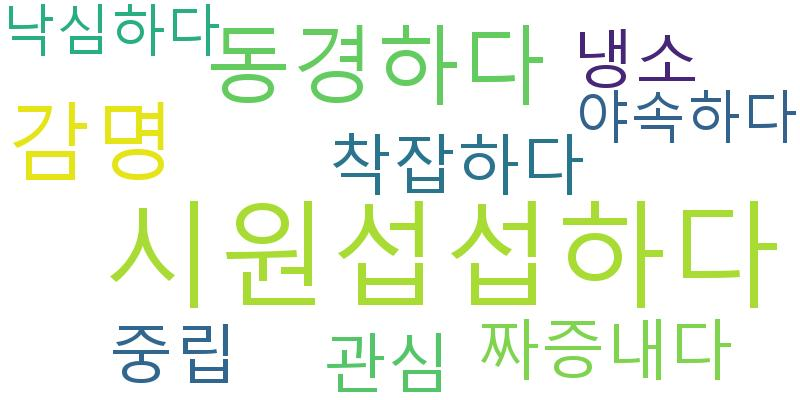
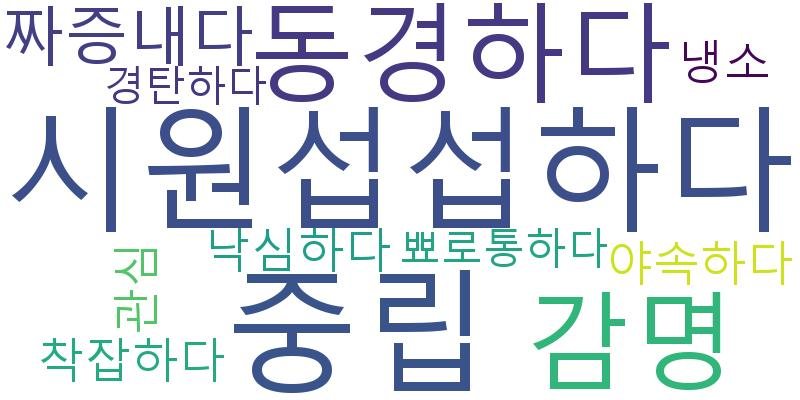
워드클라 수정

diff --git a/emotion_classification_api/data_fetcher.py b/emotion_classification_api/data_fetcher.py
@@ -45,29 +45,33 @@ def load_chat_history_from_db(croom_idx: int, session_idx: int):
 # 워드 클라우드를 생성하고 이미지 파일로 저장하는 함수
 def fetch_chat_data_and_generate_wordcloud(croom_idx: int) -> str:
     try:
-        # static_dir 값을 출력하여 확인
         print(f"Static directory path in fetcher.py: {static_dir}")
-        
-        # croom_idx에 해당하는 모든 채팅 기록 가져오기
+
+        # croom_idx에 해당하는 bot의 채팅 기록 가져오기
         chat_history = get_chat_history_by_croom(croom_idx)
         if not chat_history:
             raise ValueError("No chat history available for the given croom_idx.")
-        
-        # 모든 대화 내용을 하나의 텍스트로 결합
-        chat_texts = " ".join([entry[1] for entry in chat_history])
+
+        # emotion_keyword만 추출하여 텍스트로 결합
+        emotion_keywords = " ".join([entry[2] for entry in chat_history if entry[2]])  # entry[2]는 emotion_keyword
+        if not emotion_keywords.strip():
+            raise ValueError("No emotion keywords found for the given chat history.")
 
         # 워드 클라우드 생성
-        wordcloud = WordCloud(width=800, height=400, font_path="c:/Windows/Fonts/malgun.ttf", background_color='white').generate(chat_texts)
-        
-        # static_dir 변수를 사용하여 절대 경로 생성
+        wordcloud = WordCloud(
+            width=800,
+            height=400,
+            font_path="c:/Windows/Fonts/malgun.ttf",
+            background_color='white'
+        ).generate(emotion_keywords)
+
+        # 워드클라우드 이미지 저장
         wordcloud_dir = os.path.join(static_dir, "wordclouds")
         os.makedirs(wordcloud_dir, exist_ok=True)
         image_path = os.path.join(wordcloud_dir, f"wordcloud_{croom_idx}.jpg")
         wordcloud.to_file(image_path)
 
-        # 경로 확인 출력
         print(f"Word cloud image path: {image_path}")
-        
         return image_path
 
     except Exception as e:

diff --git a/emotion_classification_api/database_service.py b/emotion_classification_api/database_service.py
@@ -67,9 +67,12 @@ def get_chat_history_by_croom(croom_idx):
             """)
             results = connection.execute(query, {"croom_idx": croom_idx}).mappings().fetchall()
             
-            # emotion_keyword 포함하여 반환
+            # 반환 데이터 디버깅
+            print(f"Raw results fetched: {results}")
+
+            # emotion_keyword가 없는 경우 기본값 추가
             chat_history = [
-                (row['chatter'], row['chat_content'], row['emotion_keyword'])
+                (row['chatter'], row['chat_content'], row.get('emotion_keyword', ''))
                 for row in results
             ]
 
